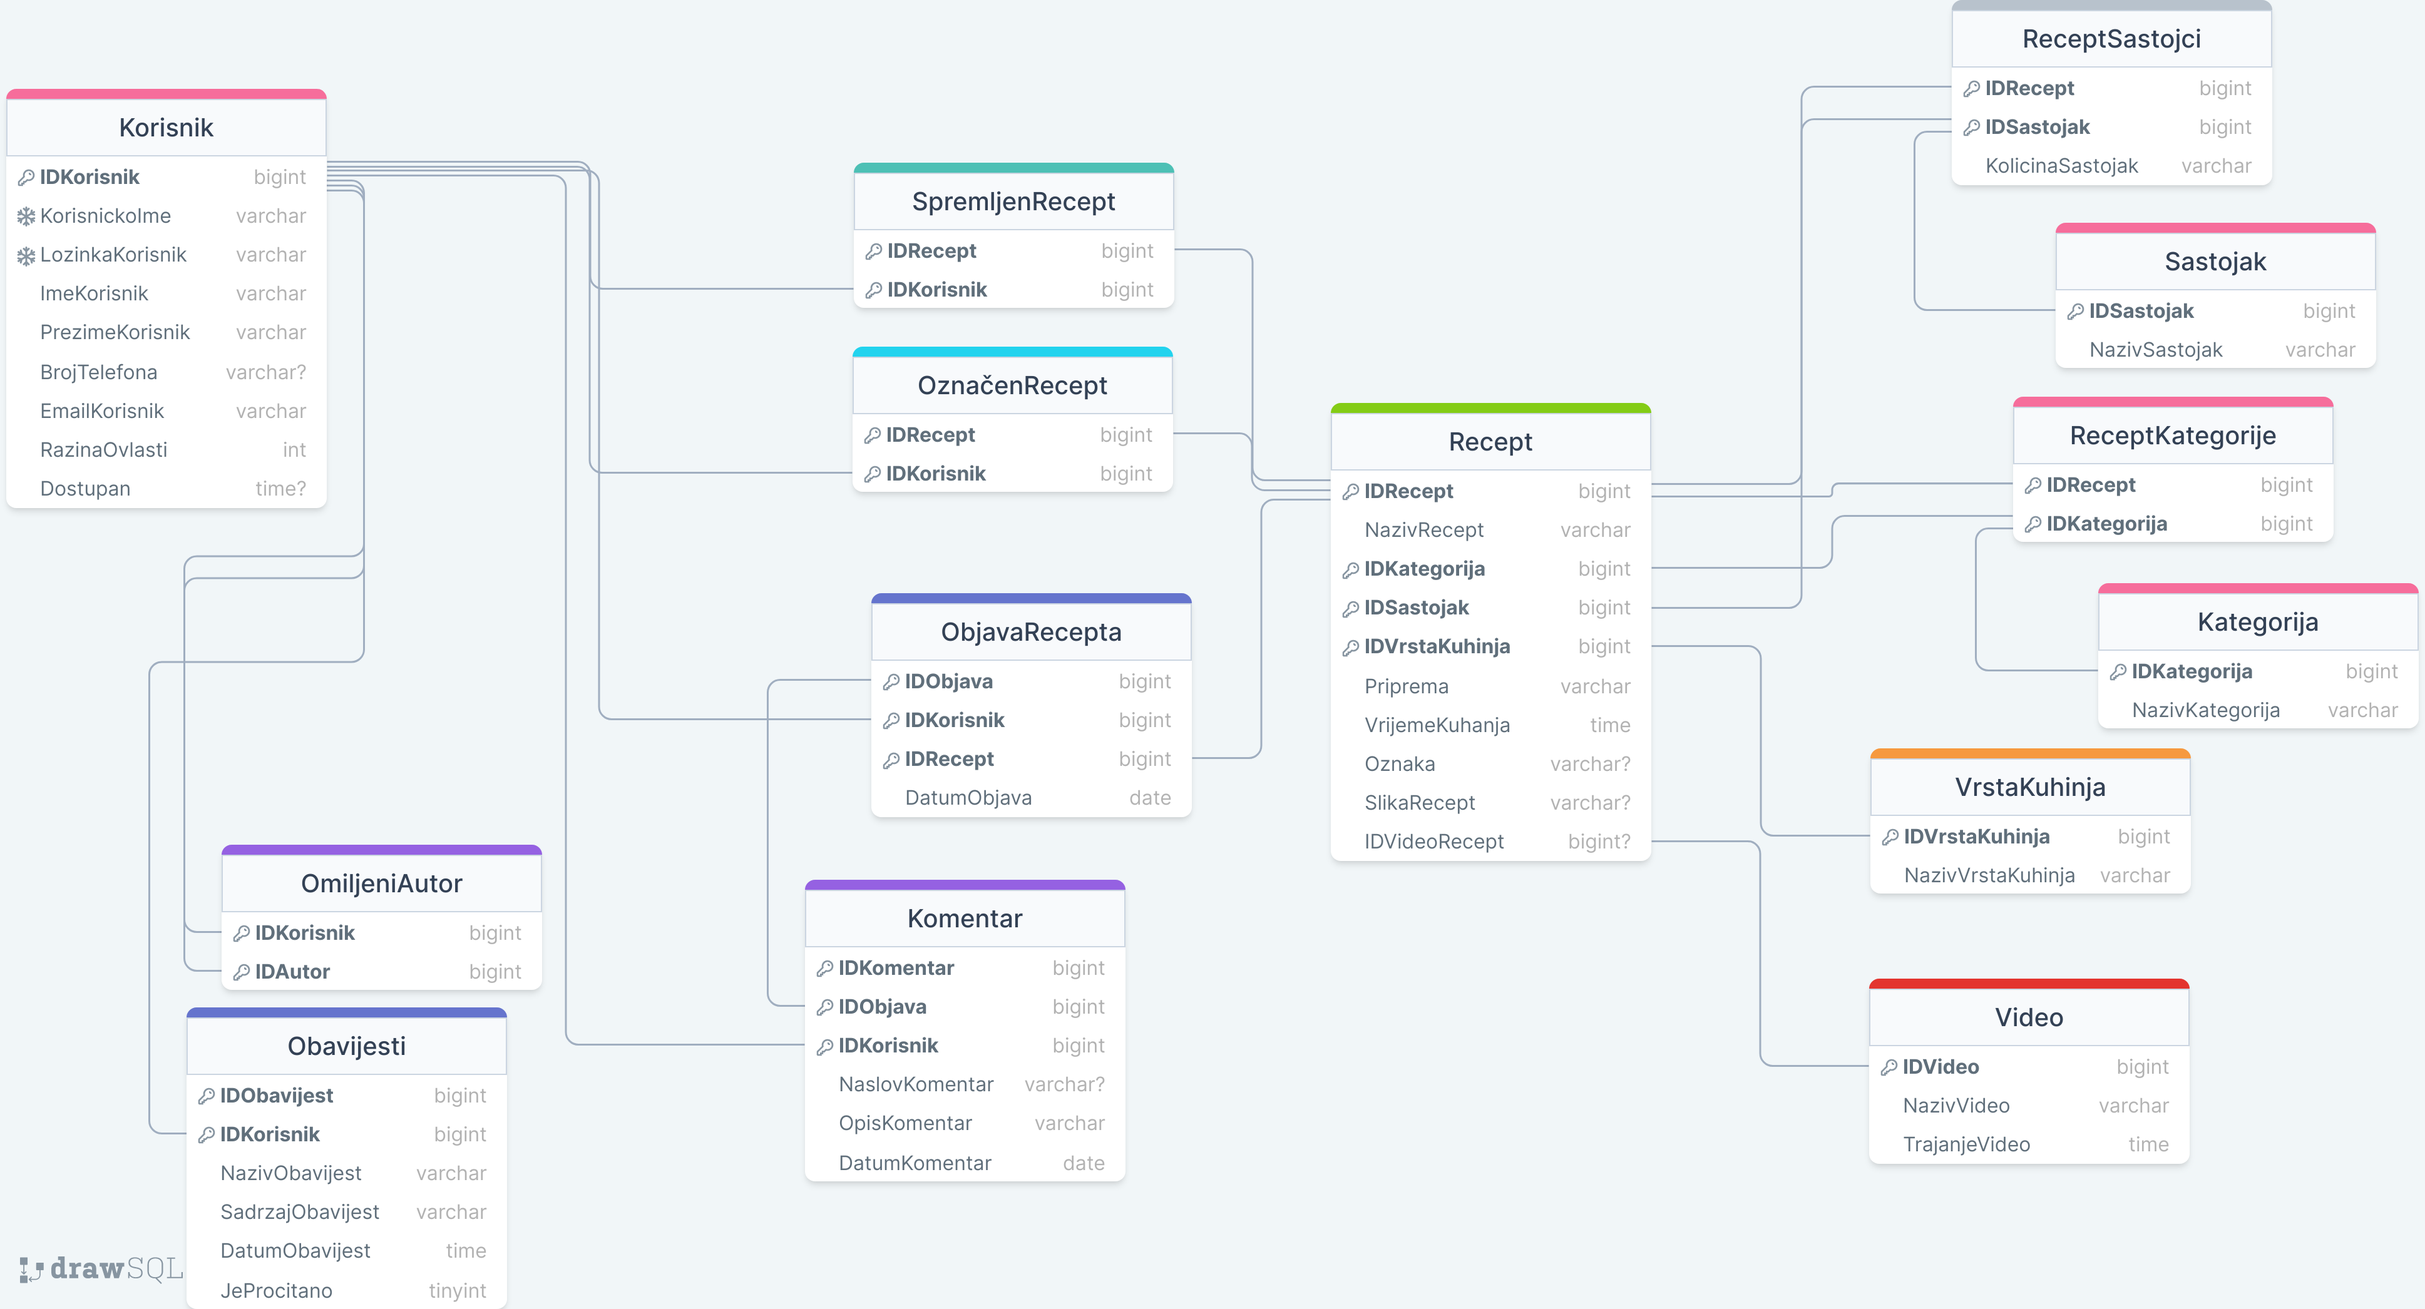
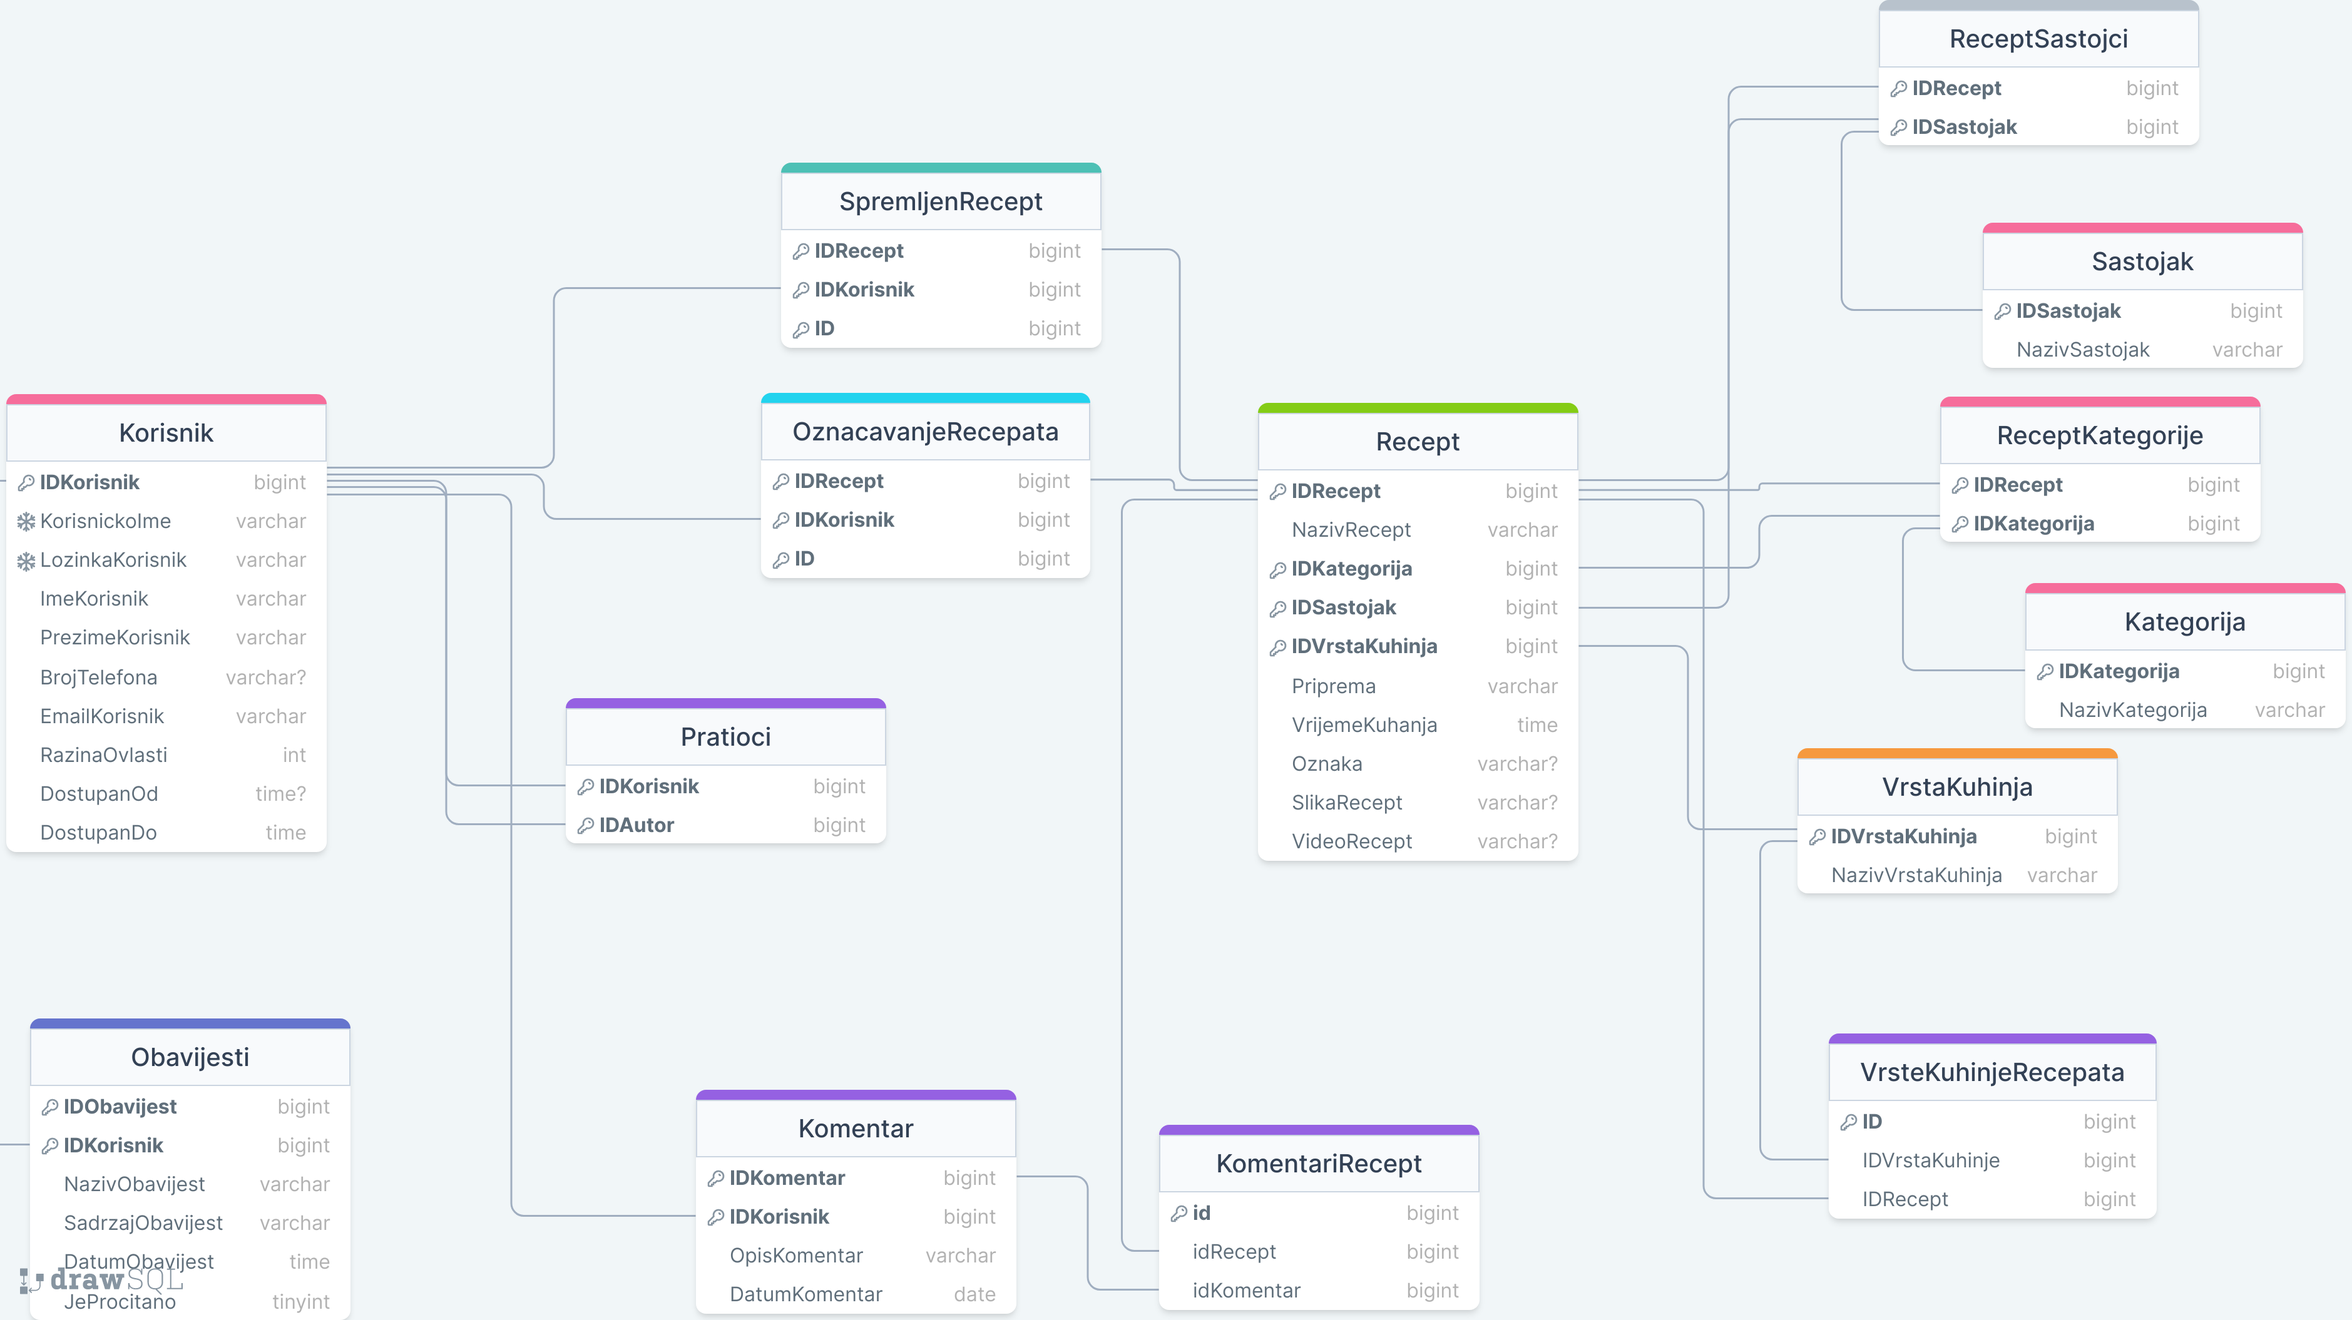
Udpate dokumentacije

diff --git a/dokumentacija/Arhitektura.tex b/dokumentacija/Arhitektura.tex
@@ -63,16 +63,16 @@
 
 	\item Korisnik
 	\item Recept
-	\item Video
-	\item Objava
 	\item Kategorija
 	\item ReceptKategorije
 	\item ReceptSastojci
 	\item Sastojak
+	\item KomentariRecept
 	\item Komentar
-	\item OmiljeniAutor
-	\item OznačenRecept
+	\item Pratioci
+	\item OznačavanjeRecepata
 	\item SpremljenRecept
+	\item VrsteKuhinjeRecepata
 	\item VrstaKuhinja
 	\item Obavijesti
 
@@ -103,12 +103,13 @@
 	BrojTelefona                   & VARCHAR & broj telefona korisnika             \\ \hline
 	EmailKorisnik                  & VARCHAR & e-mail adresa korisnika             \\ \hline
 	RazinaOvlasti                  & VARCHAR & razina ovlasti u aplikaciji         \\ \hline
-	Dostupan                       & TIME    & vrijeme dostupnosti                 \\ \hline
+	DostupanOd                     & TIME    & vrijeme dostupnosti                 \\ \hline
+	DostupanDo                     & TIME    & vrijeme dostupnosti                 \\ \hline
 \end{longtblr}
 
 \eject
 
-\textnormal{\textbf{Komentar}		Entitet Komentar služi za evidenciju komentara koji korisnici međusobno dijele u web aplikaciji. Opisuju ga atributi IDKomentar, IDKorisnik, IDObjava, te NaslovKomentar, SadrzajKomentar i DatumKomentar. Ovaj entitet je  u \textit{Many-To-One} vezi s entitetom Korisnik, te u istoj vezi s entitetom Objava.}
+\textnormal{\textbf{Komentar}		Entitet Komentar služi za evidenciju komentara koji korisnici međusobno dijele u web aplikaciji. Opisuju ga atributi IDKomentar, IDKorisnik, SadrzajKomentar i DatumKomentar. Ovaj entitet je  u \textit{Many-To-One} vezi s entitetom Korisnik.}
 
 \begin{longtblr}[
 	label=none,
@@ -121,15 +122,29 @@
 	\hline \SetCell[c=3]{c}{\textbf{Komentar}}                                     \\ \hline[3pt]
 	\SetCell{LightGreen}IDKomentar & INT     & jedinstveni identifikator komentara \\ \hline
 	\SetCell{LightBlue}IDKorisnik  & INT     & jedinstveni identifikator korisnika \\ \hline
-	\SetCell{LightBlue}IDObjava    & INT     & jedinstveni identifikator objave    \\ \hline
-	NaslovKomentar                 & VARCHAR & naziv komentara                     \\ \hline
 	OpisKomentar                   & VARCHAR & sadržaj komentara                   \\ \hline
 	DatumKomentar                  & DATE    & datum komentara                     \\ \hline
 \end{longtblr}
 
+\textnormal{\textbf{KomentariRecept}		Entitet KomentariRecept služi za evidenciju komentara. Ovaj entitet je  u \textit{Many-To-Many} vezi s entitetom Korisnik.}
+
+\begin{longtblr}[
+	label=none,
+	entry=none
+	]{
+	width = \textwidth,
+	colspec={|X[8,l]|X[6, l]|X[20, l]|},
+	rowhead = 1,
+	} %definicija širine tablice, širine stupaca, poravnanje i broja redaka naslova tablice
+	\hline \SetCell[c=3]{c}{\textbf{KomentariRecept}}                          \\ \hline[3pt]
+	\SetCell{LightGreen}ID         & INT & jedinstveni identifikator           \\ \hline
+	\SetCell{LightGreen}IDKomentar & INT & jedinstveni identifikator komentara \\ \hline
+	\SetCell{LightBlue}IDRecept    & INT & jedinstveni identifikator recepta   \\ \hline
+\end{longtblr}
+
 
 \vspace{\baselineskip}
-\textnormal{\textbf{OmiljeniAutor}		Entitet OmiljeniAutor služi za evidenciju korisnika koje jedan korisnik zaprati. Opisan je sljedećim atributima: IDKorisnik i IDAutor. U \textit{Many-To-Many} je vezi s entitetom Korisnik unutar web aplikacije.}
+\textnormal{\textbf{Pratioci}		Entitet Pratioci služi za evidenciju korisnika koje jedan korisnik zaprati. Opisan je sljedećim atributima: IDKorisnik i IDAutor. U \textit{Many-To-Many} je vezi s entitetom Korisnik unutar web aplikacije.}
 
 \begin{longtblr}[
 	label=none,
@@ -139,9 +154,10 @@
 	colspec={|X[6,l]|X[6, l]|X[20, l]|},
 	rowhead = 1,
 	} %definicija širine tablice, širine stupaca, poravnanje i broja redaka naslova tablice
-	\hline \SetCell[c=3]{c}{\textbf{OmiljeniAutor}}                             \\ \hline[3pt]
-	\SetCell{LightGreen}IDKorisnik & INT & jedinstveni identifikator pratitelja \\ \hline
-	\SetCell{LightBlue}IDAutor     & INT & ID korisnika koji je zapraćen        \\ \hline
+	\hline \SetCell[c=3]{c}{\textbf{Pratioci}}                                 \\ \hline[3pt]
+	\SetCell{LightGreen}ID        & INT & jedinstveni identifikator            \\ \hline
+	\SetCell{LightBlue}IDKorisnik & INT & jedinstveni identifikator pratitelja \\ \hline
+	\SetCell{LightBlue}IDAutor    & INT & ID korisnika koji je zapraćen        \\ \hline
 \end{longtblr}
 
 \vspace{\baselineskip}
@@ -163,13 +179,13 @@
 	\SetCell{LightBlue}IDVrstaKuhinja & INT     & ID vrste kuhinje recepta             \\ \hline
 	PripremaRecept                    & VARCHAR & Opis pripreme recepta                \\ \hline
 	VrijemeKuhanja                    & TIME    & Vrijeme potrebno za pripremu recepta \\ \hline
-	\SetCell{LightBlue}IDOznaka       & INT     & ID oznake recepta                    \\ \hline
+	Oznaka                            & INT     & Oznaka recepta                       \\ \hline
 	SlikaRecept                       & VARCHAR & Slika recepta                        \\ \hline
-	\SetCell{LightBlue}IDVideoRecept  & INT     & ID Video recepta                     \\ \hline
+	VideoRecept                       & VARCHAR & Video recepta                        \\ \hline
 \end{longtblr}
 
 \vspace{\baselineskip}
-\textnormal{\textbf{Video}		Entitet Video služi za evidenciju videa koji se objavljuju uz recepte. Opisan je sljedećim atributima: IDVideo, NazivVideo i TrajanjeVideo što omogućuje pretragu recepata po dužini pripremanja. U \textit{One-To-One} je vezi s entitetom Recept unutar web aplikacije.}
+\textnormal{\textbf{OznačavanjeRecepata}		Entitet OznačavanjeRecepata služi za evidenciju označenih recepata od strane korisnika. Opisan je atributima: IDRecept i IDKorisnik. U \textit{Many-To-Many} vezi je s entitetom Korisnik.}
 
 \begin{longtblr}[
 	label=none,
@@ -179,43 +195,9 @@
 	colspec={|X[6,l]|X[6, l]|X[20, l]|},
 	rowhead = 1,
 	} %definicija širine tablice, širine stupaca, poravnanje i broja redaka naslova tablice
-	\hline \SetCell[c=3]{c}{\textbf{Video}}                                 \\ \hline[3pt]
-	\SetCell{LightGreen}IDVideo & INT     & jedinstveni identifikator videa \\ \hline
-	NazivVideo                  & VARCHAR & naziv videa                     \\ \hline
-	TrajanjeVideo               & TIME    & trajanje videa                  \\ \hline
-\end{longtblr}
-
-\vspace{\baselineskip}
-\textnormal{\textbf{Objava}		Entitet Objava služi za evidenciju objava recepata koje korisnici objavljuju unutar web aplikacije. Opisan je atributima: IDObjava, IDKorisnik, IDRecept i DatumObjava. U \textit{Many-To-One} vezi je s entitetom Korisnik, te u \textit{Many-To-Many} vezi s entitetom Komentar i u \textit{One-To-One} s entitetom Recept.}
-
-\begin{longtblr}[
-	label=none,
-	entry=none
-	]{
-	width = \textwidth,
-	colspec={|X[6,l]|X[6, l]|X[20, l]|},
-	rowhead = 1,
-	} %definicija širine tablice, širine stupaca, poravnanje i broja redaka naslova tablice
-	\hline \SetCell[c=3]{c}{\textbf{Objava}}                                   \\ \hline[3pt]
-	\SetCell{LightGreen}IDObjava  & INT  & jedinstveni identifikator objave    \\ \hline
-	\SetCell{LightBlue}IDKorisnik & INT  & jedinstveni identifikator korisnika \\ \hline
-	\SetCell{LightBlue}IDRecept   & INT  & jedinstveni identifikator recepta   \\ \hline
-	DatumObjava                   & DATE & datum objave                        \\ \hline
-\end{longtblr}
-
-\vspace{\baselineskip}
-\textnormal{\textbf{OznačenRecept}		Entitet OznačenRecept služi za evidenciju označenih recepata od strane korisnika. Opisan je atributima: IDRecept i IDKorisnik. U \textit{Many-To-Many} vezi je s entitetom Korisnik.}
-
-\begin{longtblr}[
-	label=none,
-	entry=none
-	]{
-	width = \textwidth,
-	colspec={|X[6,l]|X[6, l]|X[20, l]|},
-	rowhead = 1,
-	} %definicija širine tablice, širine stupaca, poravnanje i broja redaka naslova tablice
-	\hline \SetCell[c=3]{c}{\textbf{OznačenRecept}}                           \\ \hline[3pt]
-	\SetCell{LightGreen}IDRecept  & INT & jedinstveni identifikator recepta   \\ \hline
+	\hline \SetCell[c=3]{c}{\textbf{OznačavanjeRecepata}}                     \\ \hline[3pt]
+	\SetCell{LightGreen}ID        & INT & jedinstveni identifikator           \\ \hline
+	\SetCell{LightBlue}IDRecept   & INT & jedinstveni identifikator recepta   \\ \hline
 	\SetCell{LightBlue}IDKorisnik & INT & ID korisnika koji je označio recept \\ \hline
 \end{longtblr}
 
@@ -231,12 +213,13 @@
 	rowhead = 1,
 	} %definicija širine tablice, širine stupaca, poravnanje i broja redaka naslova tablice
 	\hline \SetCell[c=3]{c}{\textbf{SpremljenRecept}}                         \\ \hline[3pt]
-	\SetCell{LightGreen}IDRecept  & INT & jedinstveni identifikator recepta   \\ \hline
+	\SetCell{LightGreen}ID        & INT & jedinstveni identifikator           \\ \hline
+	\SetCell{LightBlue}IDRecept   & INT & jedinstveni identifikator recepta   \\ \hline
 	\SetCell{LightBlue}IDKorisnik & INT & ID korisnika koji je spremio recept \\ \hline
 \end{longtblr}
 
 \vspace{\baselineskip}
-\textnormal{\textbf{Kategorija}		Entitet Kategorija služi za evidenciju kategorija. Opisan je atributima: IDKategorija, NazivKategorija i OpisKategorija.}
+\textnormal{\textbf{Kategorija}		Entitet Kategorija služi za evidenciju kategorija. Opisan je atributima: IDKategorija, NazivKategorija.}
 
 \begin{longtblr}[
 	label=none,
@@ -249,11 +232,10 @@
 	\hline \SetCell[c=3]{c}{\textbf{Kategorija}}                                      \\ \hline[3pt]
 	\SetCell{LightGreen}IDKategorija & INT     & jedinstveni identifikator kateogrije \\ \hline
 	NazivKategorija                  & VARCHAR & naziv kategorije                     \\ \hline
-	OpisKategorija                   & VARCHAR & opis kategorije                      \\ \hline
 \end{longtblr}
 
 \vspace{\baselineskip}
-\textnormal{\textbf{ReceptKategorije}		Entitet ReceptKategorije služi za evidenciju kategorija i recepata pod tim kategorijama. Opisan je atributima: IDKategorija, NazivKategorija i OpisKategorija. U \textit{Many-To-Many} vezi je s entitetom Recept.}
+\textnormal{\textbf{ReceptKategorije}		Entitet ReceptKategorije služi za evidenciju kategorija i recepata pod tim kategorijama. Opisan je atributima: IDKategorija, NazivKategorija. U \textit{Many-To-Many} vezi je s entitetom Recept.}
 
 \begin{longtblr}[
 	label=none,
@@ -264,12 +246,13 @@
 	rowhead = 1,
 	} %definicija širine tablice, širine stupaca, poravnanje i broja redaka naslova tablice
 	\hline \SetCell[c=3]{c}{\textbf{ReceptKategorije}}                           \\ \hline[3pt]
-	\SetCell{LightGreen}IDRecept    & INT & jedinstveni identifikator kateogrije \\ \hline
+	\SetCell{LightGreen}ID          & INT & jedinstveni identifikator            \\ \hline
+	\SetCell{LightBlue}IDRecept     & INT & jedinstveni identifikator kateogrije \\ \hline
 	\SetCell{LightBlue}IDKategorija & INT & jedinstveni identifikator recepta    \\ \hline
 \end{longtblr}
 
 \vspace{\baselineskip}
-\textnormal{\textbf{VrstaKuhinja}		Entitet VrstaKuhinja služi za evidenciju različitih vrsta kuhinja. Opisan je atributima: IDVrstaKuhinja, NazivVrstaKuhinja i OpisKategorija. U \textit{One-To-One} vezi je s entitetom Recept.}
+\textnormal{\textbf{VrstaKuhinja}		Entitet VrstaKuhinja služi za evidenciju različitih vrsta kuhinja. Opisan je atributima: IDVrstaKuhinja, NazivVrstaKuhinja. U \textit{One-To-One} vezi je s entitetom Recept.}
 
 \begin{longtblr}[
 	label=none,
@@ -282,6 +265,23 @@
 	\hline \SetCell[c=3]{c}{\textbf{VrstaKuhinja}}                                         \\ \hline[3pt]
 	\SetCell{LightGreen}IDVrstaKuhinje & INT     & jedinstveni identifikator vrste kuhinje \\ \hline
 	NazivVrstaKuhinja                  & VARCHAR & naziv vrste kuhinje                     \\ \hline
+\end{longtblr}
+
+\vspace{\baselineskip}
+\textnormal{\textbf{VrsteKuhinjeRecepata}		Entitet VrsteKuhinjeRecepata služi za evidenciju različitih vrsta kuhinja recepta ukoliko je to prikladno za recept (nije određeno kojoj pripada).}
+
+\begin{longtblr}[
+	label=none,
+	entry=none
+	]{
+	width = \textwidth,
+	colspec={|X[9,l]|X[6, l]|X[20, l]|},
+	rowhead = 1,
+	} %definicija širine tablice, širine stupaca, poravnanje i broja redaka naslova tablice
+	\hline \SetCell[c=3]{c}{\textbf{VrsteKuhinjeRecepata}}                                    \\ \hline[3pt]
+	\SetCell{LightGreen}ID            & INT & jedinstveni identifikator               \\ \hline
+	\SetCell{LightBlue}IDVrstaKuhinje & INT & jedinstveni identifikator vrste kuhinje \\ \hline
+	\SetCell{LightBlue}IDRecept       & INT & jedinstveni identifikator recepta       \\ \hline
 \end{longtblr}
 
 \vspace{\baselineskip}
@@ -301,7 +301,7 @@
 \end{longtblr}
 
 \vspace{\baselineskip}
-\textnormal{\textbf{ReceptSastojci}		Entitet ReceptSastojci služi za evidenciju različitih sastojaka unutar recepta. Opisan je atributima: IDRecept, IDSastojak i KolicinaSastojak. U \textit{Many-To-Many} vezi je s entitetom Recept.}
+\textnormal{\textbf{ReceptSastojci}		Entitet ReceptSastojci služi za evidenciju različitih sastojaka unutar recepta. Opisan je atributima: IDRecept, IDSastojak. U \textit{Many-To-Many} vezi je s entitetom Recept.}
 
 \begin{longtblr}[
 	label=none,
@@ -311,10 +311,10 @@
 	colspec={|X[8,l]|X[6, l]|X[20, l]|},
 	rowhead = 1,
 	} %definicija širine tablice, širine stupaca, poravnanje i broja redaka naslova tablice
-	\hline \SetCell[c=3]{c}{\textbf{ReceptSastojci}}                             \\ \hline[3pt]
-	\SetCell{LightGreen}IDRecept  & INT     & jedinstveni identifikator recepta  \\ \hline
-	\SetCell{LightBlue}IDSastojak & INT     & jedinstveni identifikator sastojka \\ \hline
-	KolicinaSastojak              & VARCHAR & količina sastojka                  \\ \hline
+	\hline \SetCell[c=3]{c}{\textbf{ReceptSastojci}}                         \\ \hline[3pt]
+	\SetCell{LightGreen}ID        & INT & jedinstveni identifikator          \\ \hline
+	\SetCell{LightBlue}IDRecept   & INT & jedinstveni identifikator recepta  \\ \hline
+	\SetCell{LightBlue}IDSastojak & INT & jedinstveni identifikator sastojka \\ \hline
 \end{longtblr}
 
 \vspace{\baselineskip}

diff --git a/dokumentacija/Specifikacija_programske_potpore.tex b/dokumentacija/Specifikacija_programske_potpore.tex
@@ -367,9 +367,9 @@
 \begin{packed_item}
 
 	\item Sustav treba biti implementiran kao web aplikacija koristeći objektno-orijentirane paradigme i norme kako bi se omogućilo ponovno korištenje dijelova koda/modula.
-	\item Nepravilno korištenje web aplikacije ne smije rezultirati padom sustava, odnosno potrebno je usmjeriti korisnika na pravilno korištenje pop-up dijalozima.
+	\item Nepravilno korištenje web aplikacije ne smije rezultirati padom sustava.
 	\item U sustavu treba biti omogućen rad i korištenje web aplikacije od strane više korisnika (cca. 50).
-	\item Sustav mora podržati dijakritičke znakove hrvatskog jezika, dakle treba podržati hrvatsku abecedu. Omogućit će se i promjena jezika s hrvatskog na engleski jezik.
+	\item Sustav mora podržati dijakritičke znakove hrvatskog jezika, dakle treba podržati hrvatsku abecedu.
 	\item Hrvatski jezik je zadani jezik unutar web aplikacije.
 	\item Sustav mora imati intuitivno sučelje koje neće stvarati nedoumice kod korisnika odnosno web-aplikacija treba biti jednostavna za korištenje.
 	\item Konekcija s bazom podataka mora imati brz odziv. Bilo kakav pokušaj neovlaštenog pristupa informacijama u bazi podataka potrebno je spriječiti i istu adekvatno zašititi.
